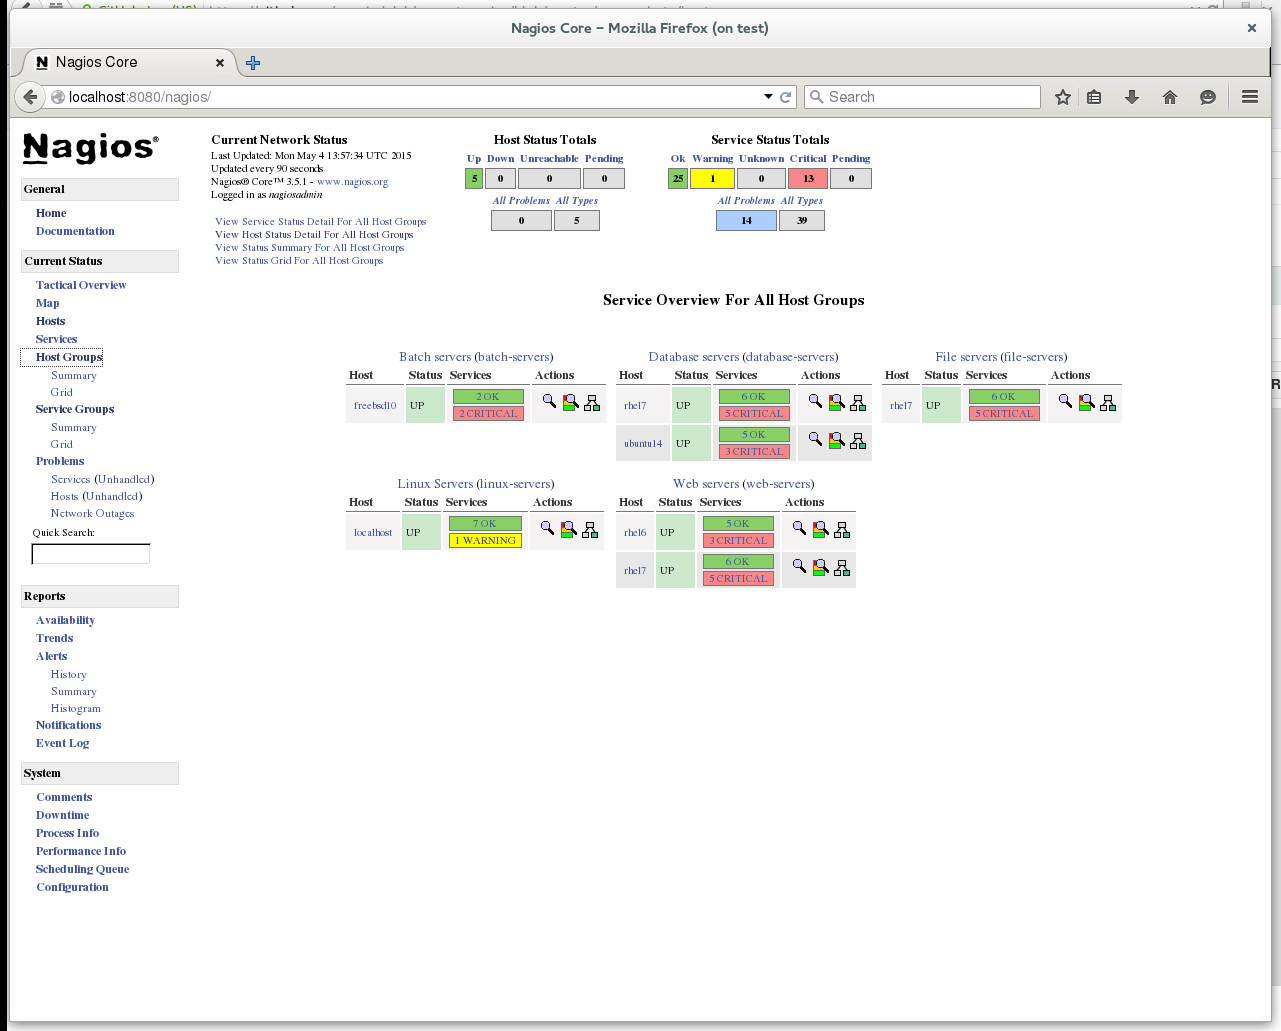
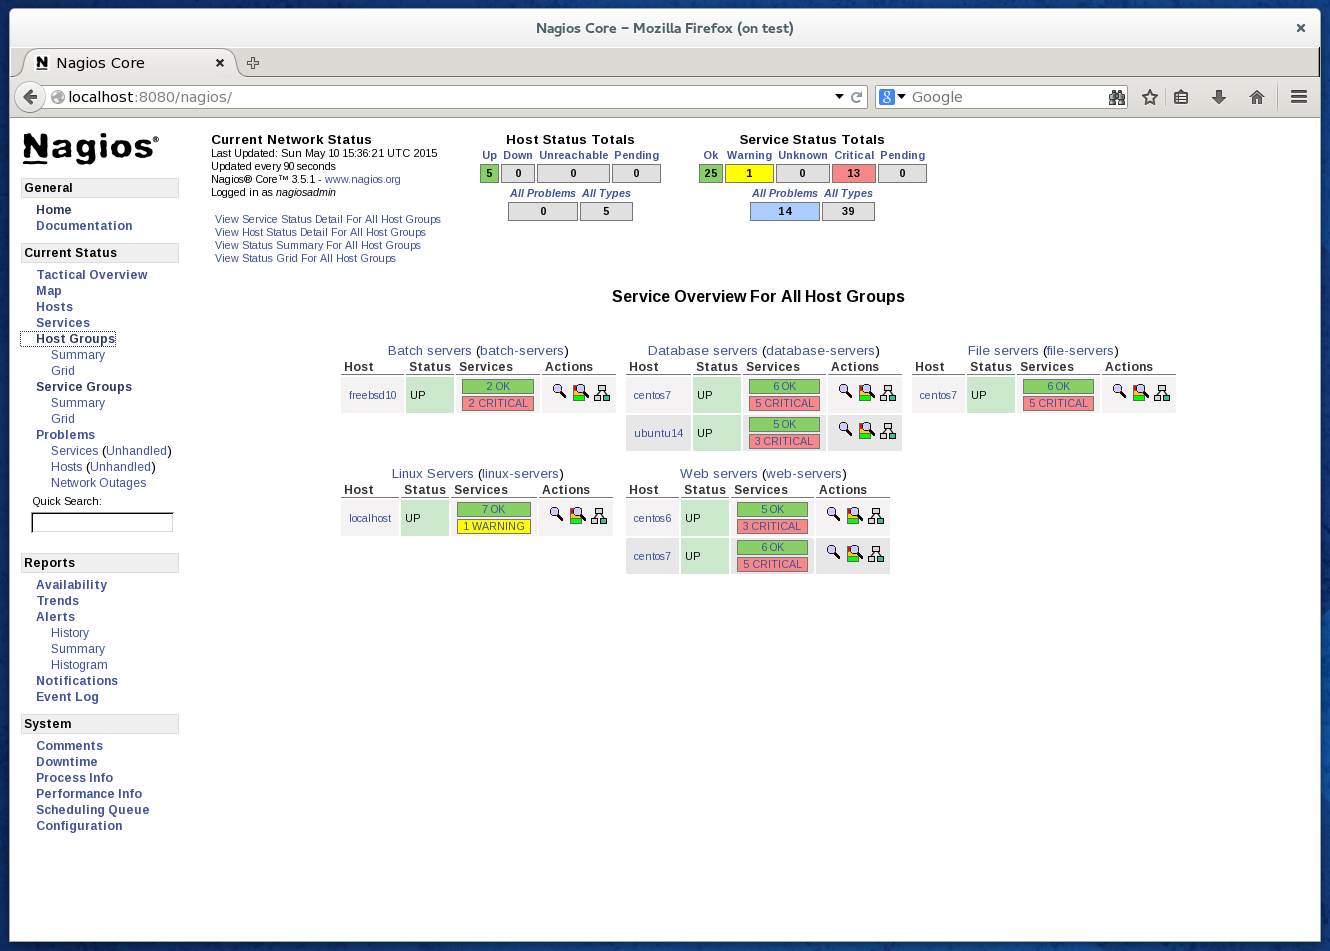
rename rhel -> centos

Changed region(s): [[0.0, 0.0, 1.0, 1.0], [0.2498, 0.2744, 0.8743, 0.6099]]

diff --git a/README.md b/README.md
@@ -3,9 +3,9 @@ Description
 -----------
 
 A puppet module that installs and configures Nagios server and clients.
-Supported on Debian(Ubuntu), RHEL(Fedora) and FreeBSD (FreeBSD only as a client).
+Supported on Debian(Ubuntu), CentOS(Fedora) and FreeBSD (FreeBSD only as a client).
 
-Tested on: Debian 7/8, Ubuntu 14.04, RHEL 6/7, Fedora 20, and FreeBSD 10.
+Tested on: Debian 7/8, Ubuntu 14.04, CentOS 6/7, Fedora 20, and FreeBSD 10.
 
 ------------
 Sample Usage
@@ -27,27 +27,27 @@ You should see the following Nagios setup:
 ![Service Groups](https://raw.github.com/marcindulak/puppet-nagios/master/screenshots/servicegroups.png)
 
 Test Nagios **check_http** plugin on the **nagiosserver**
-command line against the **rhel6** machine::
+command line against the **centos6** machine::
 
-        $ vagrant ssh nagiosserver -c "sudo su -c '/usr/lib64/nagios/plugins/check_http -H rhel6'"
+        $ vagrant ssh nagiosserver -c "sudo su -c '/usr/lib64/nagios/plugins/check_http -H centos6'"
 
-Configure Apache on the **rhel6** machine::
+Configure Apache on the **centos6** machine::
 
-        $ vagrant ssh rhel6 -c "sudo su -c 'yum install -y httpd'"
-        $ vagrant ssh rhel6 -c "sudo su -c 'touch /var/www/html/index.html'"
-        $ vagrant ssh rhel6 -c "sudo su -c 'chown apache.apache /var/www/html/index.html'"
-        $ vagrant ssh rhel6 -c "sudo su -c 'service httpd start'"
+        $ vagrant ssh centos6 -c "sudo su -c 'yum install -y httpd'"
+        $ vagrant ssh centos6 -c "sudo su -c 'touch /var/www/html/index.html'"
+        $ vagrant ssh centos6 -c "sudo su -c 'chown apache.apache /var/www/html/index.html'"
+        $ vagrant ssh centos6 -c "sudo su -c 'service httpd start'"
 
 Test again::
 
-        $ vagrant ssh nagiosserver -c "sudo su -c '/usr/lib64/nagios/plugins/check_http -H rhel6'"
+        $ vagrant ssh nagiosserver -c "sudo su -c '/usr/lib64/nagios/plugins/check_http -H centos6'"
 
 After a short time the service test corresponding to this plugin
 should change status on the Nagios web interface.
 
 Check NRPE **check_total_procs** plugin::
 
-        $ vagrant ssh nagiosserver -c "sudo su -c '/usr/lib64/nagios/plugins/check_nrpe -H rhel6 -c check_total_procs -a 150 200'"
+        $ vagrant ssh nagiosserver -c "sudo su -c '/usr/lib64/nagios/plugins/check_nrpe -H centos6 -c check_total_procs -a 150 200'"
 
 When done, destroy the test machines with::
 
@@ -65,7 +65,7 @@ This module uses puppetdb, not packaged yet for the targeted
 operating systems (see e.g. https://bugzilla.redhat.com/show_bug.cgi?id=1068867).
 Use the puppet packages provided by puppetlabs.com instead: for Ubuntu/Debian
 install the deb package for your OS version from http://apt.puppetlabs.com/,
-and for Fedora/RHEL install the RPM from http://yum.puppetlabs.com/.
+and for Fedora/CentOS install the RPM from http://yum.puppetlabs.com/.
 
 Note that this module does not handle firewall settings, you are on your own.
 Moreover puppetdb settings are IPv4-centric - disable IPv6 on the puppetmaster!
@@ -76,7 +76,7 @@ Install the puppetmaster server machine:
 
         $ sudo apt-get -y install puppetmaster puppetdb puppetdb-terminus
 
-* on RHEL/Fedora::
+* on CentOS/Fedora::
 
         $ su -c "yum -y install puppet-server puppetdb puppetdb-terminus"
 
@@ -132,7 +132,7 @@ the packages from puppetlabs.com, use the distribution packages instead:
 
         $ sudo apt-get -y install puppet
 
-* on RHEL/Fedora (on RHEL enable the EPEL repository https://fedoraproject.org/wiki/EPEL)::
+* on CentOS/Fedora (on CentOS enable the EPEL repository https://fedoraproject.org/wiki/EPEL)::
 
         $ su -c "yum -y install puppet"
 
@@ -184,7 +184,7 @@ On the puppetmaster server (only) install the puppet-nagios module:
         $ sudo git clone https://github.com/marcindulak/puppet-nagios.git
         $ sudo ln -s puppet-nagios nagios
 
-* on RHEL/Fedora (on RHEL enable the EPEL repository https://fedoraproject.org/wiki/EPEL)::
+* on CentOS/Fedora (on CentOS enable the EPEL repository https://fedoraproject.org/wiki/EPEL)::
 
         $ su -c "yum -y install git"
         $ cd /etc/puppet/modules
@@ -218,7 +218,7 @@ Due to the way the flat configuration files needed by Nagios are
 created on the Nagios server and clients by puppet you may need
 to run puppet agent twice.
 
-In order to access the Nagios web interface, on the Nagios server (on RHEL)::
+In order to access the Nagios web interface, on the Nagios server (on CentOS)::
 
         systemctl start httpd.service  # service httpd start
         systemctl enable httpd.service  # chkconfig httpd on
@@ -253,7 +253,7 @@ The command below is used only for standalone runs
 
         $ sudo puppet apply --verbose --debug /etc/puppet/manifests/site.pp
 
-* on RHEL/Fedora:
+* on CentOS/Fedora:
 
         $ su -c "puppet apply --verbose /etc/puppet/manifests/site.pp"
 
